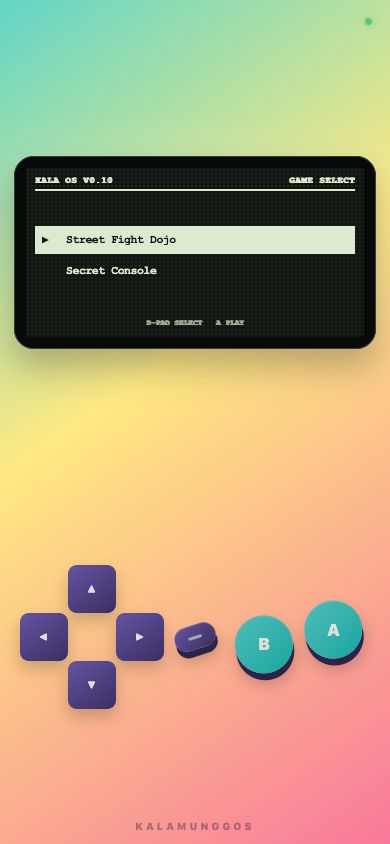
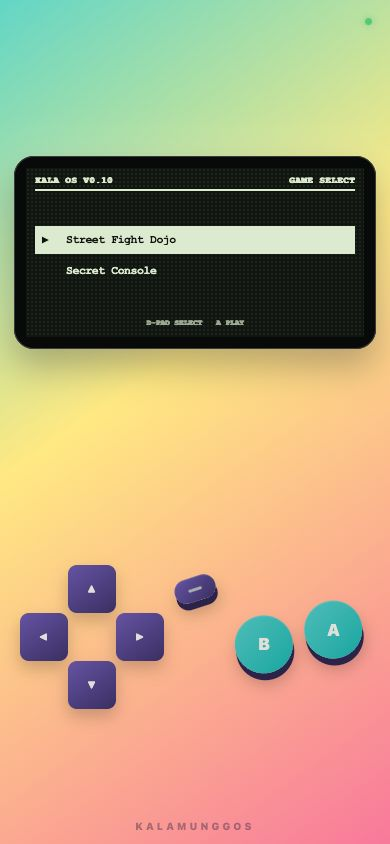
Keep controls below display in landscape

Changed region(s): [[0.4308, 0.6777, 0.5846, 0.8009]]

diff --git a/src/styles.css b/src/styles.css
@@ -171,17 +171,18 @@ button { font: inherit; }
 .about p { margin: 3px 0; }
 .about-close { position: sticky; top: 0; float: right; border: 0; color: #10150f; background: transparent; font-weight: 900; cursor: pointer; }
 
-.controls { display: grid; grid-template-columns: 1fr 52px 1fr; align-items: center; width: 100%; }
+.controls { --dpad-size: 56px; display: grid; grid-template-columns: 1fr 52px 1fr; align-items: center; width: 100%; }
 .controls button { border: 0; color: #dedfd9; background: linear-gradient(145deg, var(--control-highlight), var(--control)); box-shadow: inset 0 1px 1px rgba(255,255,255,.15), 0 7px 0 color-mix(in srgb, var(--control) 75%, black), 0 11px 16px rgba(0,0,0,.23); user-select: none; -webkit-user-select: none; }
 .controls button.is-pressed, .controls button:active { transform: translateY(5px); box-shadow: inset 0 1px 1px rgba(255,255,255,.1), 0 2px 0 color-mix(in srgb, var(--control) 75%, black); }
-.dpad { justify-self: center; display: grid; grid-template-columns: repeat(3, 56px); grid-template-rows: repeat(3, 56px); filter: drop-shadow(0 8px 8px rgba(0,0,0,.2)); }
-.dpad button { min-width: 56px; min-height: 56px; border-radius: 9px; box-shadow: none; font-size: .7rem; }
+.dpad { justify-self: center; display: grid; grid-template-columns: repeat(3, var(--dpad-size)); grid-template-rows: repeat(3, var(--dpad-size)); filter: drop-shadow(0 8px 8px rgba(0,0,0,.2)); }
+.dpad button { min-width: var(--dpad-size); min-height: var(--dpad-size); border-radius: 9px; box-shadow: none; font-size: .7rem; }
 .dpad [data-button="up"] { grid-area: 1 / 2; }
 .dpad [data-button="left"] { grid-area: 2 / 1; }
 .dpad-center { grid-area: 2 / 2; }
 .dpad [data-button="right"] { grid-area: 2 / 3; }
 .dpad [data-button="down"] { grid-area: 3 / 2; }
-.system-button { place-self: center; width: 42px; height: 24px; border-radius: 999px; transform: rotate(-18deg); }
+.system-button { place-self: center; width: 42px; height: 24px; border-radius: 999px; transform: translateY(calc(0px - var(--dpad-size))) rotate(-18deg); }
+.controls .system-button.is-pressed, .controls .system-button:active { transform: translateY(calc(5px - var(--dpad-size))) rotate(-18deg); }
 .system-button span { display: block; width: 14px; height: 3px; margin: auto; border-radius: 3px; background: #aaa; }
 .action-buttons { justify-self: center; display: flex; gap: 22px; transform: rotate(-12deg); }
 .action-buttons button { width: 66px; height: 66px; border-radius: 50%; font-weight: 900; font-size: 1.05rem; background: linear-gradient(145deg, color-mix(in srgb, var(--accent) 75%, white), var(--accent)); }
@@ -195,20 +196,17 @@ button { font: inherit; }
 
 @media (orientation: landscape) and (max-height: 700px) {
   .handheld { padding-block: max(env(safe-area-inset-top), 8px) max(env(safe-area-inset-bottom), 8px); }
-  .console-body { grid-template-columns: minmax(280px, 1.3fr) minmax(300px, 1fr); grid-template-rows: 1fr; gap: clamp(18px, 4vw, 48px); width: min(100%, 900px); }
-  .display-stack { width: 100%; }
+  .console-body { grid-template-rows: minmax(0, 1fr) auto; gap: 6px; width: min(100%, 700px); }
+  .display-stack { width: min(100%, 440px); }
   .title-display { margin-bottom: 6px; }
-  .controls { grid-template-columns: 1fr 42px 1fr; }
-  .dpad { grid-template-columns: repeat(3, min(14vh, 60px)); grid-template-rows: repeat(3, min(14vh, 60px)); }
-  .dpad button { min-width: min(14vh, 60px); min-height: min(14vh, 60px); }
-  .action-buttons button { width: min(16vh, 72px); height: min(16vh, 72px); }
+  .controls { --dpad-size: min(10vh, 44px); grid-template-columns: 1fr 52px 1fr; width: min(100%, 620px); margin: auto; }
+  .action-buttons button { width: min(13vh, 58px); height: min(13vh, 58px); }
   .brand-mark { display: none; }
 }
 
 @media (max-width: 430px) {
   .console-body { grid-template-rows: minmax(0, 1fr) minmax(210px, 42vh); }
-  .dpad { grid-template-columns: repeat(3, 48px); grid-template-rows: repeat(3, 48px); }
-  .dpad button { min-width: 48px; min-height: 48px; }
+  .controls { --dpad-size: 48px; }
   .action-buttons { gap: 13px; }
   .action-buttons button { width: 58px; height: 58px; }
 }
